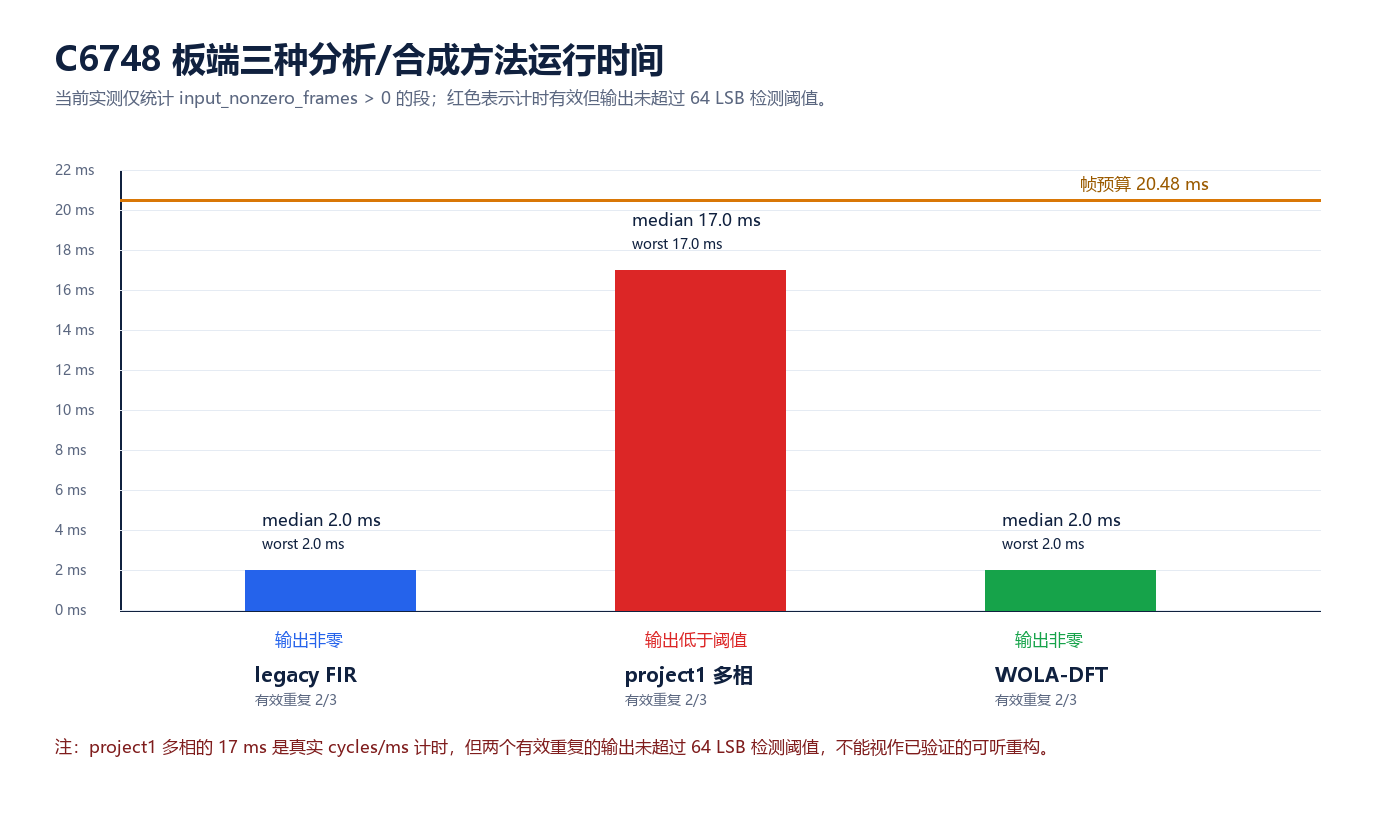
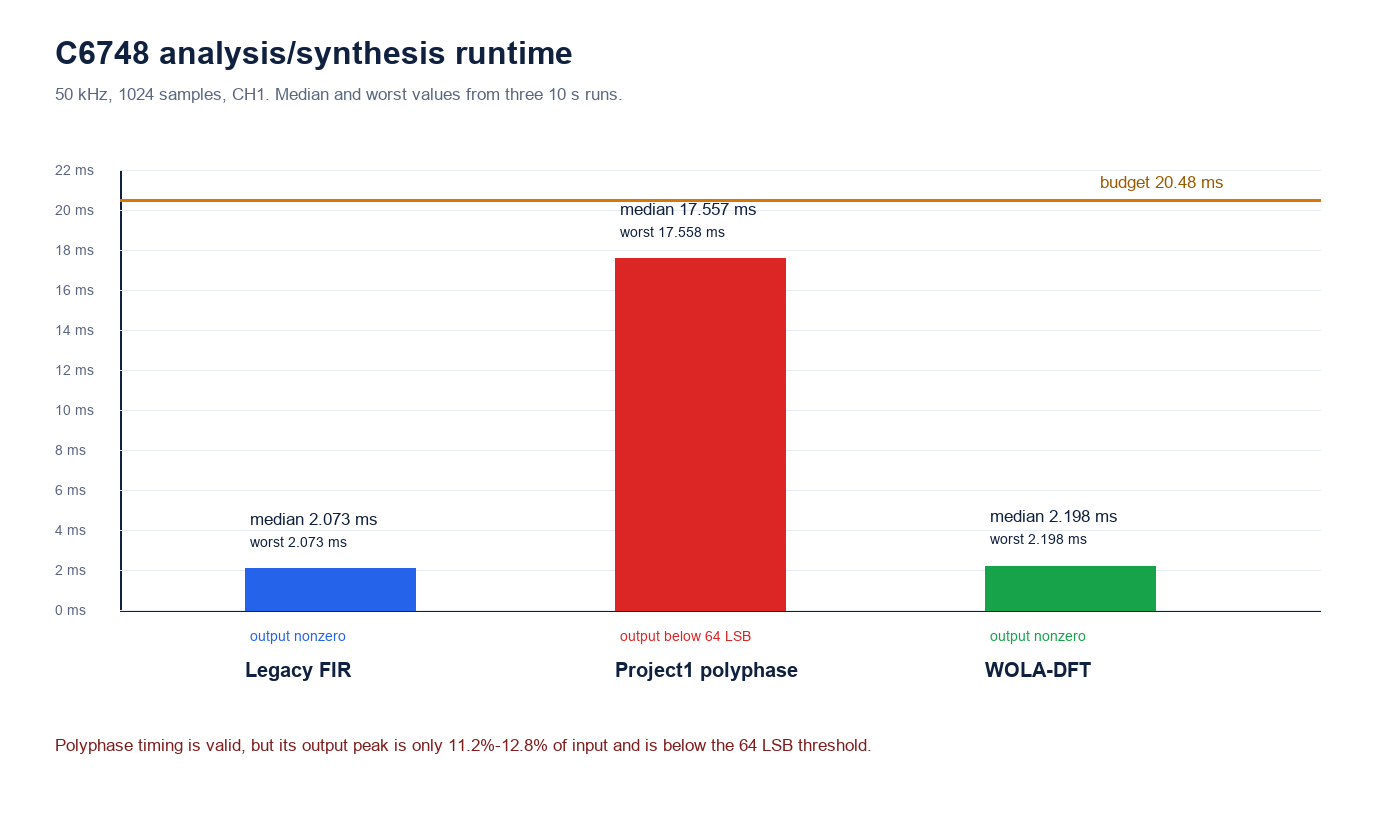
新的测试

diff --git a/docs/eval_outputs/board_missing_tests_summary.md b/docs/eval_outputs/board_missing_tests_summary.md
@@ -1,43 +1,46 @@
-# Project 3.2 Board Missing Tests Summary
+# Project 3.2 C6748 Board Test Summary
 
-Generated: 2026-07-10T11:24:46
+## Traceability
 
-## Measurement Status
+- Hardware: TMS320C6748, core clock 456 MHz.
+- Configuration: 50 kHz, 1024 samples/frame, CH1, O3 Debug.
+- Commit: `cf0db0781e6dae9a810bef3eb7f29bef1d261339`.
+- Source CSV: `docs/eval_outputs/board_missing_tests_raw.csv`.
+- Each row is a 10 s DSS hardware measurement after a 1 s input-frame preflight.
+- `realtime_pass=1` means measured max processing time is below 20.48 ms. It does not prove audio quality.
 
-- Raw DSS rows: 21 (`board_missing_tests_raw.csv`).
-- Rows with an input-silent or no-frame condition were normalized to `NOT_MEASURED` in `board_missing_tests.csv`.
-- `subjective_result` is automated-only. It cannot claim absence of blast, tearing, or audible distortion.
+## Method Comparison
 
-## Newly Executed Method Comparison
+| Backend | Repeats | Median max ms | Worst max ms | Median CPU | Output observation |
+|---|---:|---:|---:|---:|---|
+| legacy FIR | 3/3 | 2.073 | 2.073 | 10.12% | nonzero frames in all runs |
+| project1 polyphase | 3/3 | 17.557 | 17.558 | 85.73% | below 64 LSB output threshold |
+| WOLA-DFT | 3/3 | 2.198 | 2.198 | 10.73% | nonzero frames in all runs |
 
-| Backend | Valid timing repeats | Median MaxMs | Worst MaxMs | Output status | Conclusion |
-|---|---:|---:|---:|---|---|
-| legacy FIR | 2/3 | 2.000 ms | 2.000 ms | nonzero | timing valid |
-| project1 polyphase | 2/3 | 17.000 ms | 17.000 ms | below output threshold | reconstruction listening test required |
-| WOLA-DFT | 2/3 | 2.000 ms | 2.000 ms | nonzero | timing valid |
+- WOLA reported 3 output-clip frame(s) across the three runs; this is source-level amplitude evidence and needs listening-level confirmation.
+- The project1 polyphase wrapper met timing but its peak output/input ratio was only 0.112-0.128. It is not accepted as a verified audible reconstruction path.
 
-The third repeat for every method had no ADC/input frames. It is not used in the medians or worst-case values, so the requested three valid repetitions have not been completed.
+## Codec-only WOLA
 
-## Codec-only 160 / 240 / 320 kbps
+| Target kbps | Repeats | Measured kbps median | Compression median | Max ms worst | CPU median | Clamp ratio | Invalid count |
+|---:|---:|---:|---:|---:|---:|---:|---:|
+| 160 | 3/3 | 158 | 5.0x | 4.306 | 21.02% | 0.000 | 0 |
+| 240 | 3/3 | 233 | 3.0x | 5.012 | 24.47% | 0.000 | 0 |
+| 320 | 3/3 | 321 | 2.0x | 5.744 | 28.03% | 0.000 | 0 |
 
-- Newly executed valid codec-only repetitions: 0/9. All current rows are `NOT_MEASURED_INPUT_SILENT`.
-- Therefore target bitrate response, bit allocation, clamp ratio, and audible quality were not re-claimed from this run.
-- Historical board reference: `board_codec_loopback_runtime.csv` (2026-07-08) recorded MCRA+codec, not codec-only: 160->158 kbps, 240->233 kbps, 320->321 kbps; MaxMs 14/15/16 ms; clamp ratios 0.270/0.410/0.472%; invalid_count=0. It has a traceable CSV/configuration but no commit SHA, so it is reference-only and needs current-code rerun.
+## Full Chain: WOLA + MCRA + Codec 240 kbps
 
-## Full Chain WOLA + MCRA + 240 kbps
+| Repeats | Median max ms | Worst max ms | Median CPU | Learning | Ready | Measured kbps | Output observation |
+|---:|---:|---:|---:|---|---:|---:|---|
+| 3/3 | 15.465 | 15.466 | 75.51% | 391/391 | 1 | 233 | below 64 LSB threshold; peak ratio 0.076 |
 
-- Newly executed valid full-chain repetitions: 0/3. Current runs are `NOT_MEASURED_INPUT_SILENT`; learning values are not accepted as a 2 s learning result.
-- Historical logged C6748 results from 2026-07-06 are traceable: 487 AD/DA/WOLA frames in 10 s, 391/391 learning hops, ready=1, WOLA+early denoise MaxMs=3.512 ms, CPU=17%. They are historical measurements, not current-code replacements.
-- Historical 2026-07-08 mode 8 / 240 kbps reference: MaxMs=15 ms, CPU=76%, learning=391/391, ready=1, estimated bitrate=233 kbps, clamp ratio=0.410%, invalid_count=0. It must be re-run after continuous input is restored.
+The full-chain measurements prove the DSP processing schedule and learning state completed in time. They do not prove acceptable sound: all three output peaks were 31 LSB, below the automated 64 LSB nonzero threshold. Repeat listening verification with a documented noise-only then speech-plus-stationary-noise source before making an audio-quality claim.
 
-## Required Rerun Condition
-
-Keep a continuous, fixed-amplitude CH1 source active for the complete test sequence. For the full-chain case, feed noise-only for the first 2 s and speech plus stationary noise afterwards. Then re-run `tmp/dss_board_missing_tests.js`; it will produce three repetitions per requested condition.
-
-## Generated Files
+## Artifacts
 
 - `docs/eval_outputs/board_missing_tests.csv`
 - `docs/eval_outputs/board_missing_tests_raw.csv`
+- `docs/eval_outputs/board_missing_tests_initial_input_lost_raw.csv` (archived incomplete earlier run)
 - `docs/eval_outputs/plots/board_runtime_compare.png`
 - `docs/eval_outputs/plots/codec_bitrate_compare.png`
 - `docs/eval_outputs/plots/codec_band_bits_compare.png`